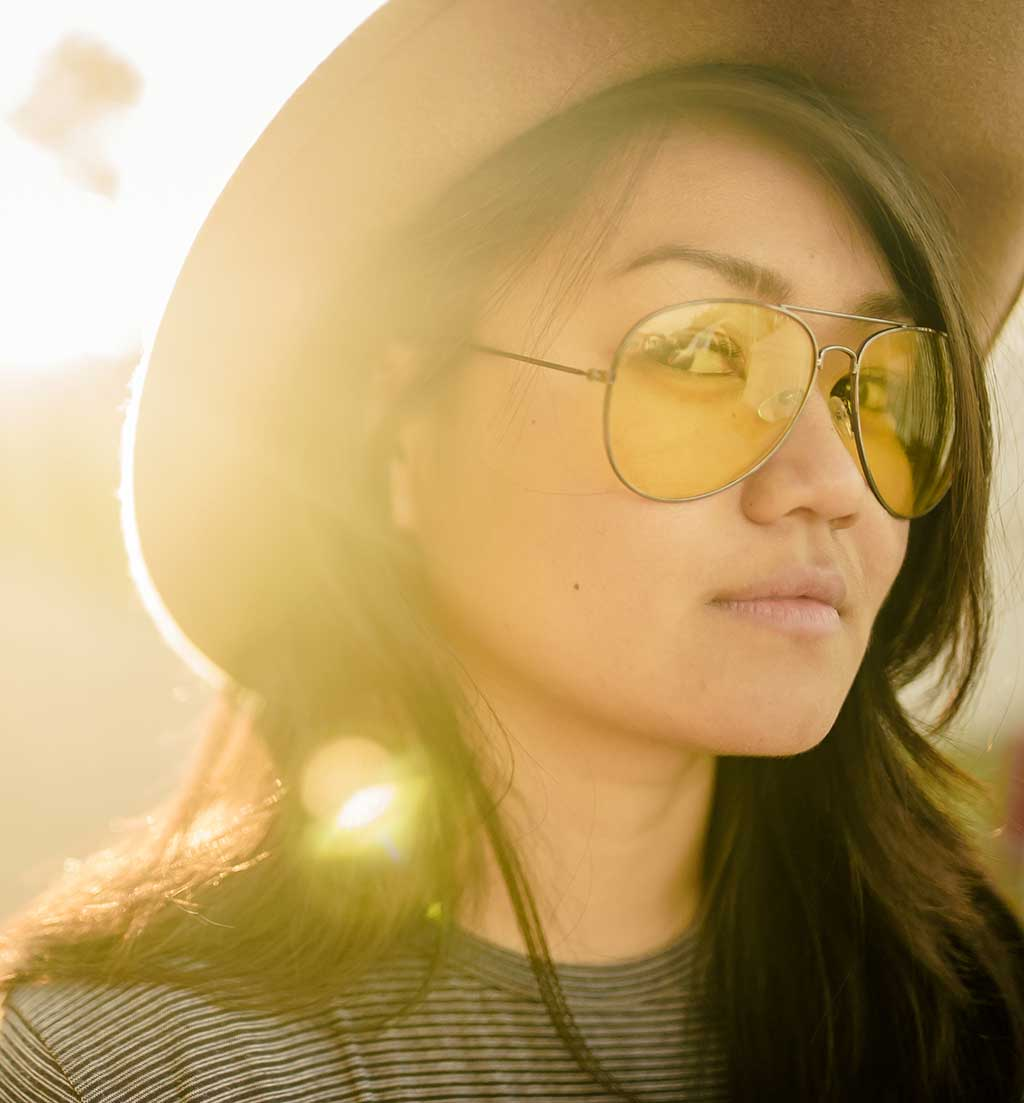
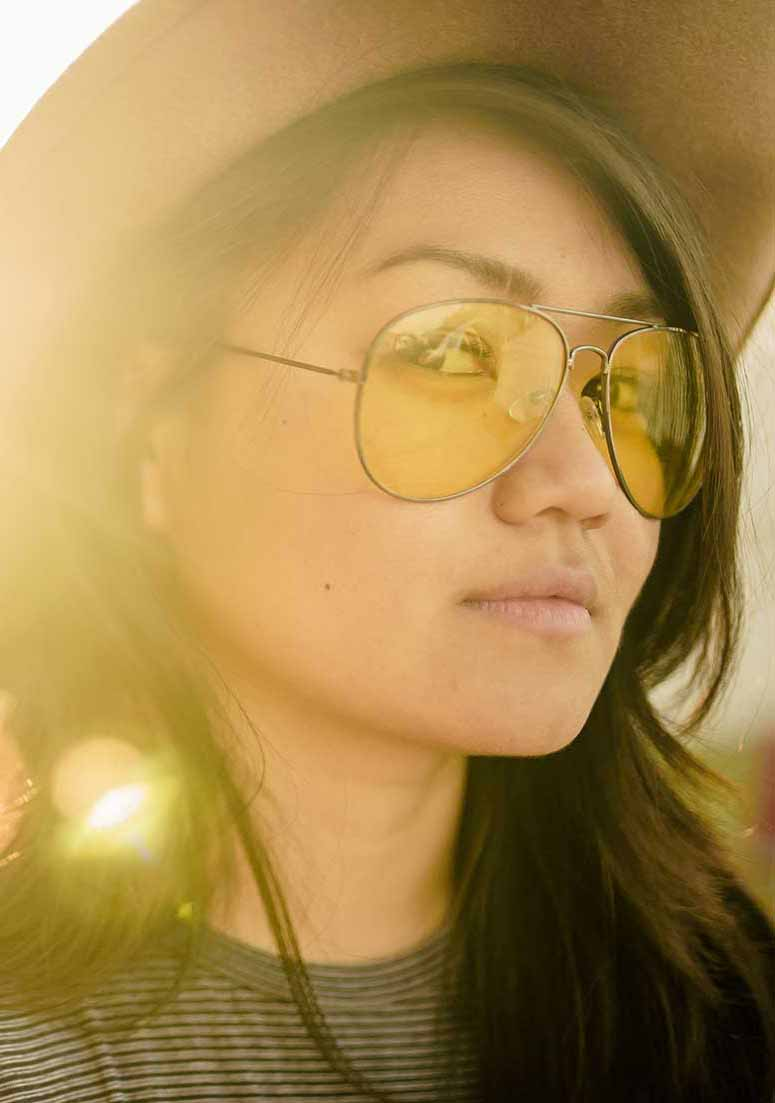
Improve team layout

diff --git a/_sass/_layout.scss b/_sass/_layout.scss
@@ -96,26 +96,37 @@ header {
   padding: $_2em;
   overflow-x: scroll;
   .shots {
-    width: 4000px;
+    white-space: nowrap;
     .mugshot {
+      white-space: wrap;
       display: inline-block;
-      background: $black-base;
+      background: $grey-fade;
       margin-right: $_2em;
       padding-bottom: $_1em;
-      width: 400px;
+      width: 360px;
       text-align: center;
-      color: $white-base;
       transform: scale(1.0);
       transition: all 0.4s ease;
       &:hover {
         transform: scale(1.02);
-        box-shadow: 0 8px 20px rgba(0,0,0,0.3);
+        box-shadow: 0 8px 20px rgba(0,0,0,0.5);
+      }
+      .img-container {
+        position: relative;
+        height: 500px;
+        overflow: hidden;
       }
       img {
+        position: absolute;
+        left: 0;
+        right: 0;
+        margin: 0 auto;
         width: 100%;
+        height: auto;
+        transform: scale(1.04);
       }
       h4 {
-        margin-top: $_1em;
+        margin-top: $_2em;
       }
       a:hover {
         text-decoration: none;

diff --git a/_layouts/index.html b/_layouts/index.html
@@ -57,8 +57,10 @@
       <div class="shots space-top-xs-lg">
         {% for member in page.members %}
           <div class="mugshot">
-            <a href="{{ member.url }}" target="_blank">
+            <div class="img-container">
               <image src="{{ site.baseurl}}/{{ member.mugshot }}"/>
+            </div>
+            <a href="{{ member.url }}" target="_blank">
               <h4>{{ member.name }}</h4>
               <p class="small">{{ member.title }}</p>
             </a>
